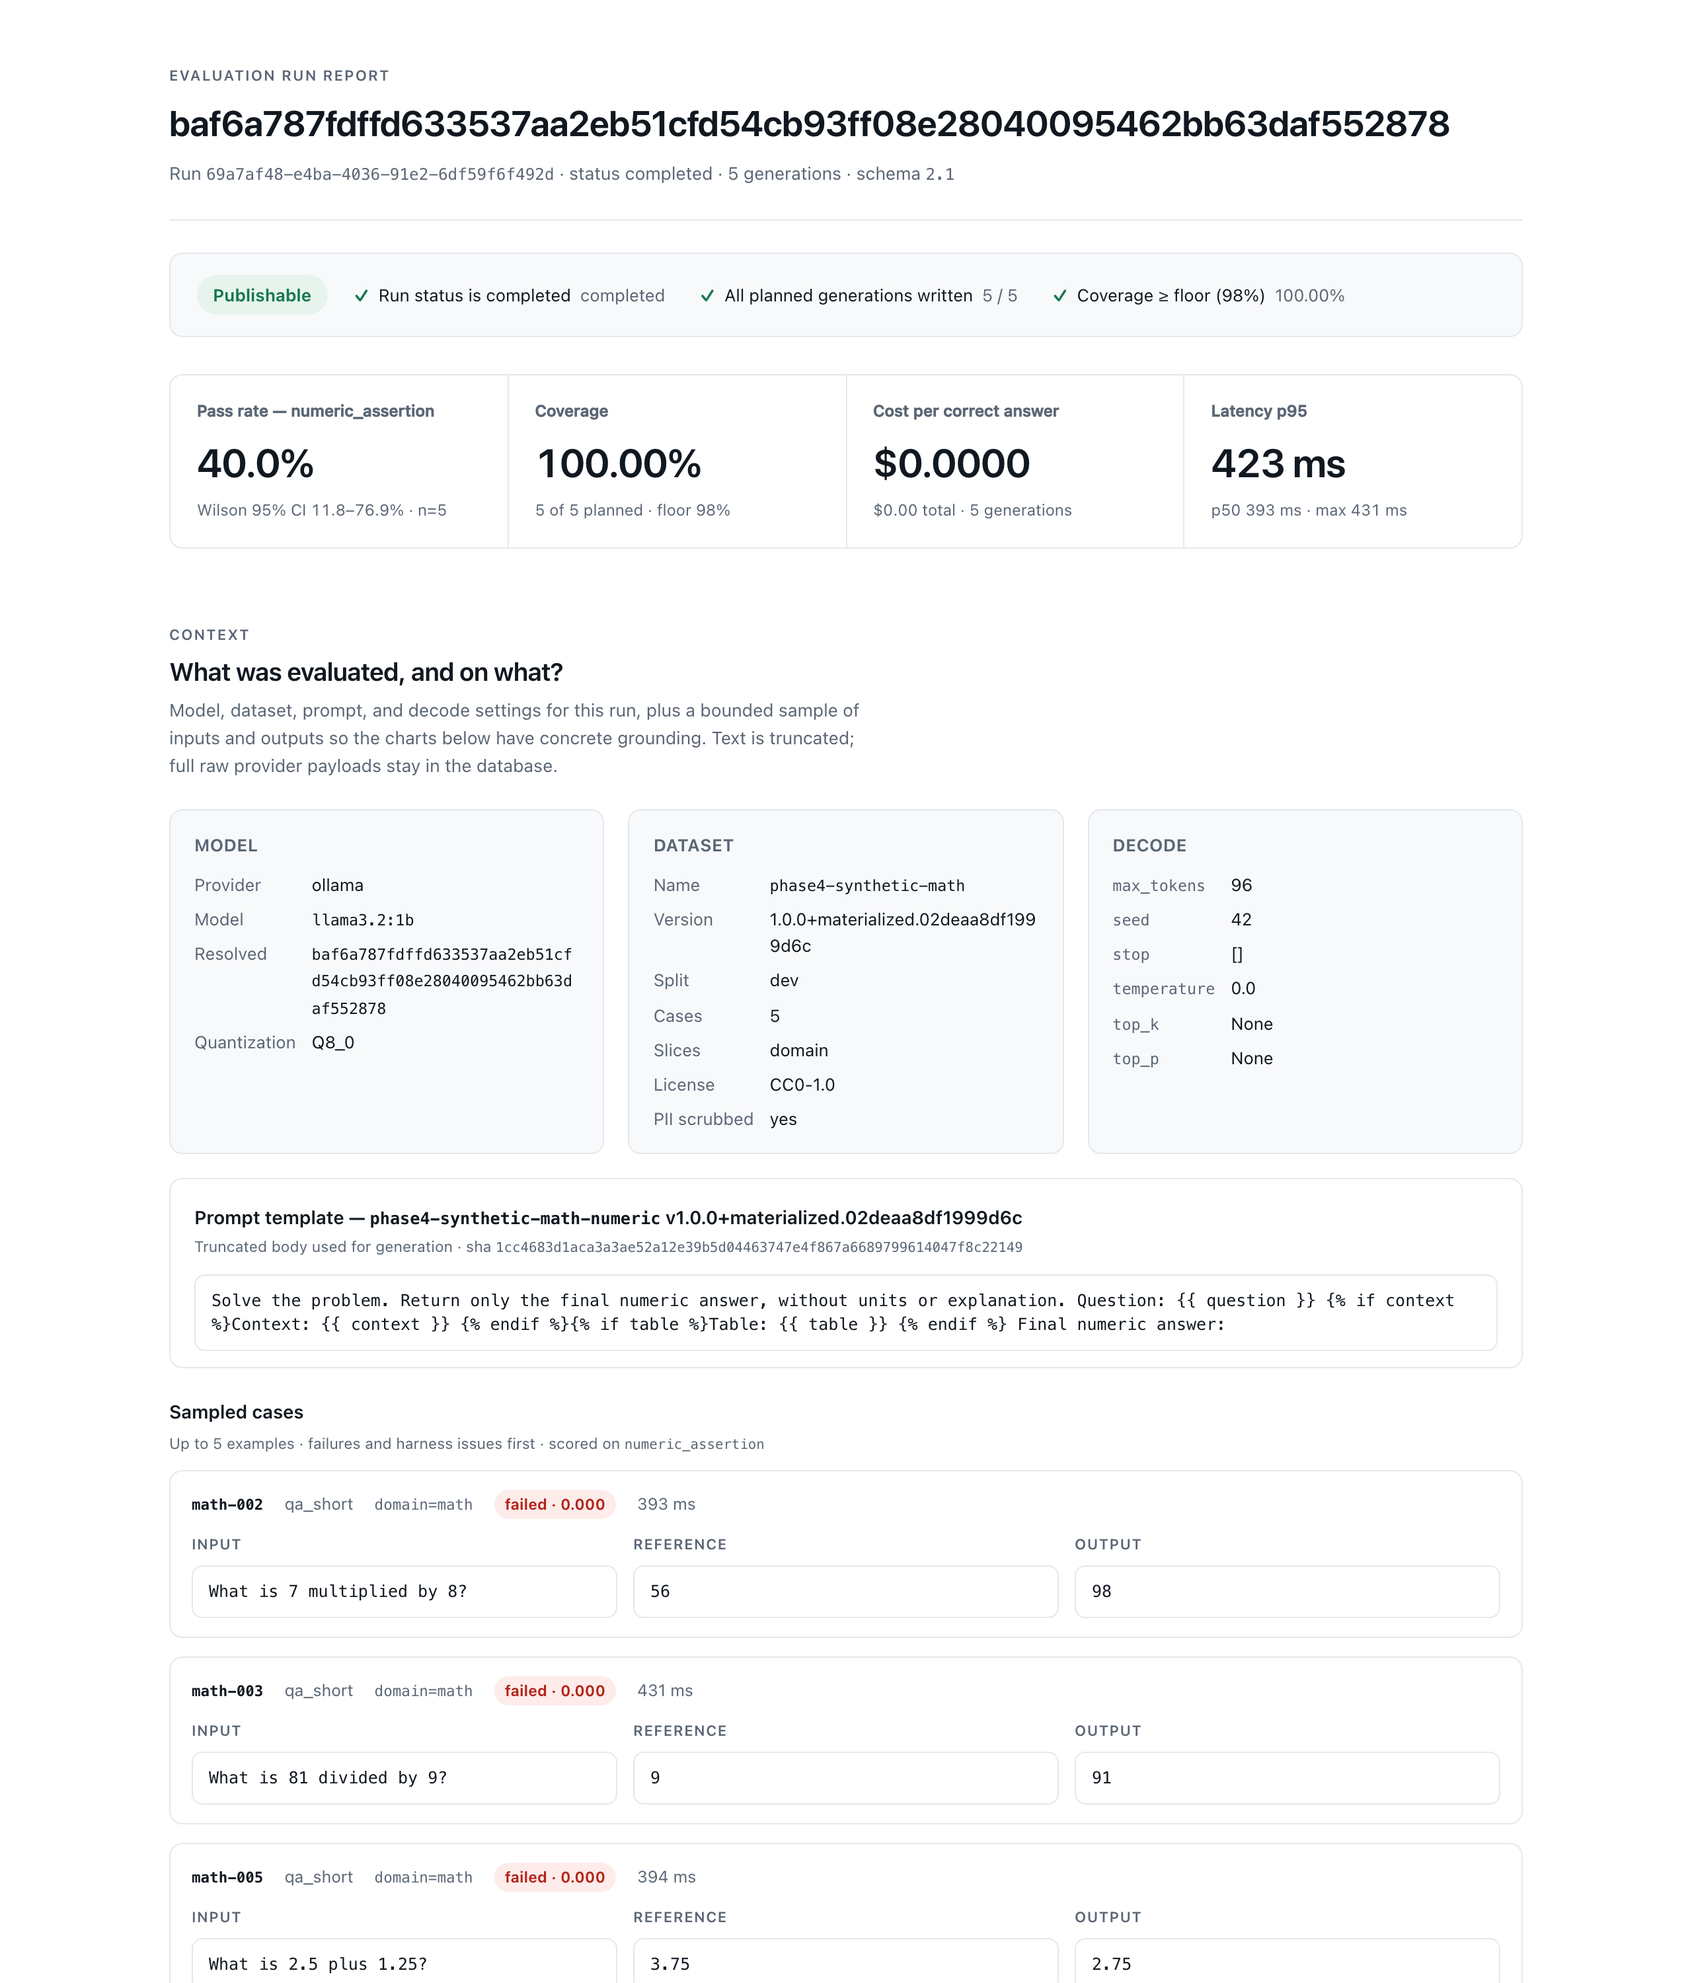
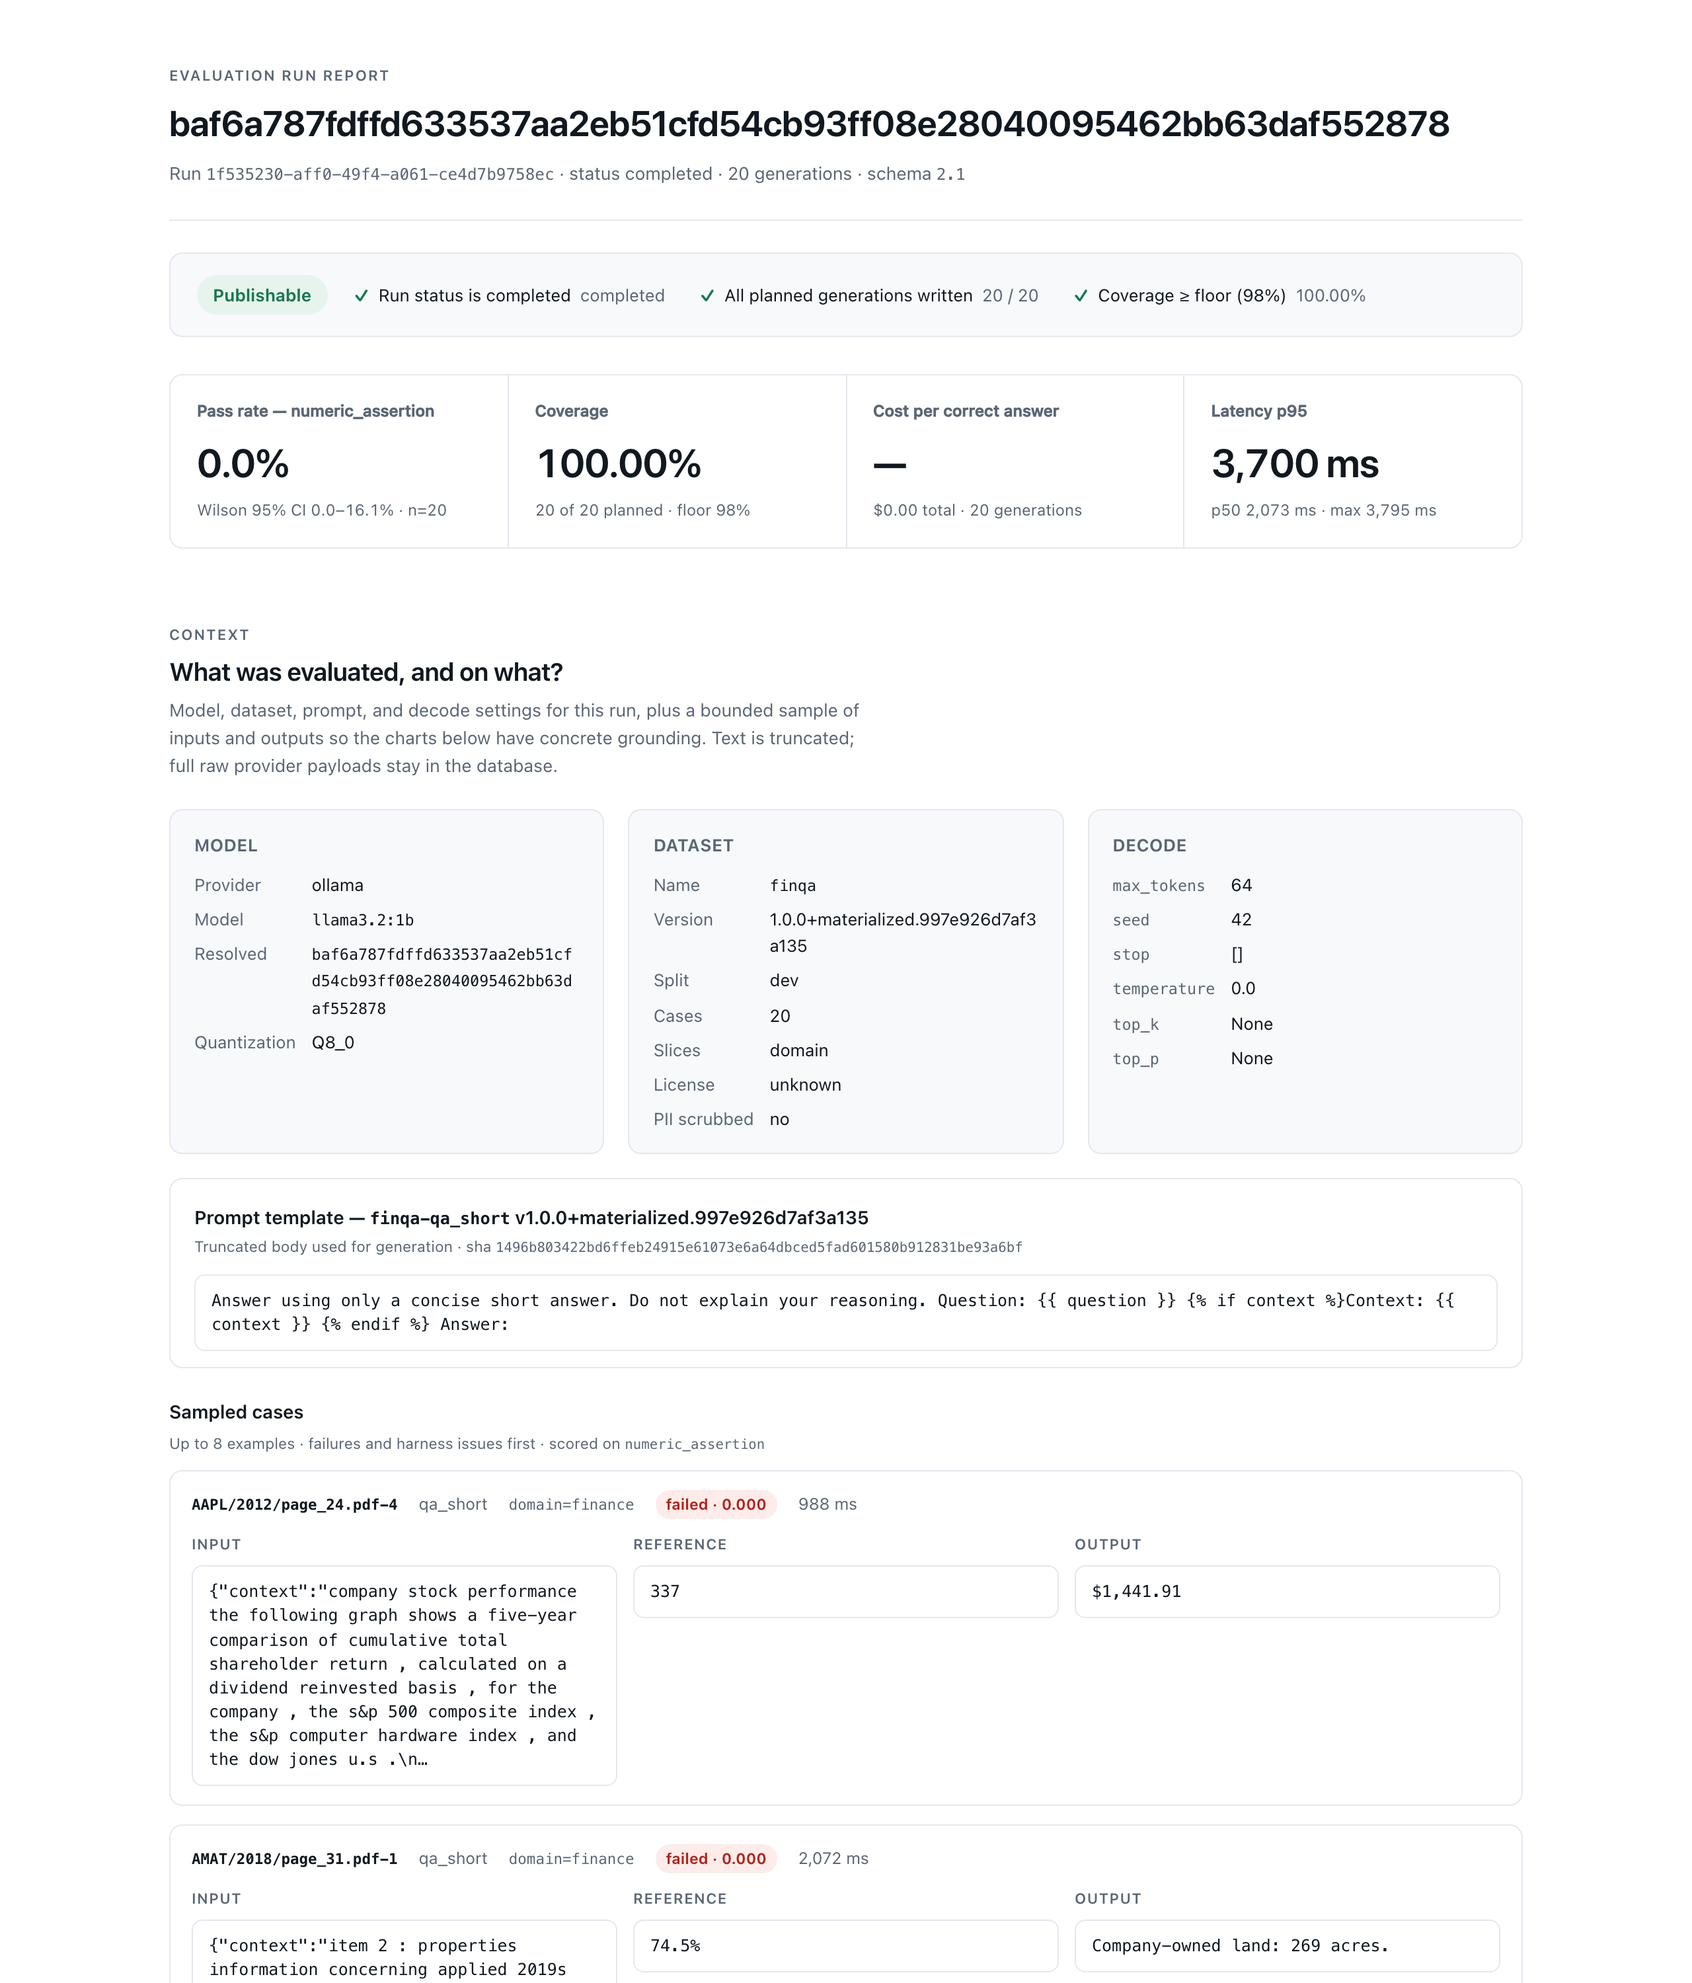
docs: replace mock screenshots with live Ollama real-corpus runs
Refresh README assets from SQuAD, AG News, FinQA, and PubMedQA via
llama3.2:1b, fix PubMedQA CONTEXTS parsing, and update the demo script.

diff --git a/packages/evaldatasets/src/evaldatasets/adapters.py b/packages/evaldatasets/src/evaldatasets/adapters.py
@@ -151,7 +151,8 @@ def _pubmedqa(path: Path) -> list[CaseRecord]:
     for record_id, value in root.items():
         if not isinstance(value, dict):
             continue
-        context_value = value.get("CONTEXT", [])
+        # Upstream PubMedQA dumps use CONTEXTS (list); older snapshots used CONTEXT.
+        context_value = value.get("CONTEXTS", value.get("CONTEXT", []))
         context = (
             "\n".join(map(str, context_value))
             if isinstance(context_value, list)

diff --git a/README.md b/README.md
@@ -41,159 +41,126 @@ Harness failures (a provider timing out, garbage output) are counted separately 
 
 ## What the reports look like
 
-Screenshots below come from a **full Ollama end-to-end pass** (`llama3.2:1b`) over
-cache-only **SQuAD v1.1** and **AG News** packs plus synthetic fixtures that
-exercise other metric families. Artifacts live under `reports/demo/ollama/`
-(gitignored). Reproduce with Postgres + Ollama up, then:
+Screenshots below are from **live Ollama** runs (`llama3.2:1b`) on **real public
+corpora** only (no mock provider, no synthetic fixtures):
+
+| Corpus | Pack | Primary metric | Pass rate (this run) |
+|--------|------|----------------|----------------------|
+| [SQuAD v1.1](https://rajpurkar.github.io/SQuAD-explorer/) | 50-case CI | `squad_f1` | **52%** (Wilson ~39–65%) |
+| [AG News](https://raw.githubusercontent.com/mhjabreel/CharCnn_Keras/master/data/ag_news_csv/test.csv) | 50-case CI | `classification` | **2%** |
+| [FinQA](https://github.com/czyssrs/FinQA) | 20-case smoke | `numeric_assertion` | **0%** |
+| [PubMedQA](https://github.com/pubmedqa/pubmedqa) | 20-case smoke | `classification` | **0%** |
+
+Artifacts: `reports/demo/ollama-real/` (gitignored). Snapshots stay under
+`.cache/` (also gitignored). Reproduce:
 
 ```bash
-docker compose up -d postgres ollama
-ollama pull llama3.2:1b
+docker compose up -d postgres ollama && ollama pull llama3.2:1b
 ./scripts/demo_realworld.sh --provider ollama --model llama3.2:1b
 ```
 
-Numbers cited are from that run (small smoke packs, 1B model). They illustrate
-how to read the UI, not a claim about SOTA quality.
+A 1B local model is deliberately weak on label/JSON/finance QA; the point is
+honest live plumbing on real text, not SOTA numbers.
 
 ### Publishability and KPIs
 
-<img src="docs/assets/kpi-publishability.png" alt="KPI strip: pass rate with Wilson CI, coverage, cost, latency p95" width="900" />
+<img src="docs/assets/kpi-publishability.png" alt="SQuAD CI KPI strip from Ollama: 52% squad_f1 pass rate with Wilson CI" width="900" />
 
-**How to read it.** The green badges are harness honesty gates, not model
-quality: run completed, all planned generations written, coverage at or above
-the floor (here 98%). **Pass rate** is the fraction of scored cases that pass
-the primary metric, with a **Wilson 95% CI**. Wide intervals on small `n` are
-expected. Coverage near 100% with a low pass rate means the pipeline worked and
-the model simply scored poorly (or the metric is strict). Cost stays honest
-when the provider reports pricing; unpriced generations fail closed on money
-gates elsewhere.
+**How to read it.** Green badges are harness honesty (completed run, all
+generations written, coverage ≥ floor), not model quality. **Pass rate** is the
+primary-metric success rate with a **Wilson 95% CI**. Here coverage is 100% with
+a mid pack pass rate: the runner finished and the model got about half of SQuAD
+F1 thresholds. Wide CIs shrink as `n` grows (this pack is `n=50`).
 
-### Extractive QA (`squad_f1`, `exact_match`)
+### Extractive QA on SQuAD (`squad_f1`, `exact_match`)
 
-SQuAD v1.1 smoke pack (20 cases). Primary metric `squad_f1` pass rate **35%**
-(Wilson 95% CI about 18–57%). Exact match was harder on this 1B model: F1 can
-credit partial token overlap while EM requires a normalized string match.
+<img src="docs/assets/realworld-squad-dashboard.png" alt="Live Ollama dashboard on SQuAD v1.1 CI pack" width="900" />
 
-<img src="docs/assets/realworld-squad-dashboard.png" alt="Ollama SQuAD dashboard showing non-zero squad_f1 pass rate" width="900" />
+![Metric scores with 95% CI](docs/assets/chart-metric-scores.png)
 
-![Metric scores with 95% CI for squad_f1 and exact_match](docs/assets/chart-metric-scores.png)
+**How to read it.** Bars are metric×slice (or overall) estimates with CI
+whiskers. `squad_f1` credits token overlap; `exact_match` needs a normalized
+string hit. When F1 is ahead of EM, the model is close but not exact. Do not
+rank models on the CI midpoint alone.
 
-**How to read it.** Each bar is a metric×slice (or overall) point estimate with
-an error bar for the CI method labeled on the report (Wilson for rates). Compare
-metrics on the same cases: if `squad_f1` rises while `exact_match` stays flat,
-the model is getting closer without hitting exact strings. Do not treat the CI
-midpoint as a leaderboard score without `n`.
+![Sampled SQuAD cases](docs/assets/metric-qa-sampled-cases.png)
 
-![Sampled SQuAD cases with reference vs model output](docs/assets/metric-qa-sampled-cases.png)
+**How to read it.** Samples are for debugging. Compare reference spans to model
+text: empty answers, over-long answers, and wrong entities show up here with
+per-case latency.
 
-**How to read it.** Sampled cases are for debugging, not the denominator. Check
-whether failures are empty answers, verbose answers that hurt EM, or wrong
-spans. Latency per case sits beside the score so slow outliers are visible.
+### News classification on AG News (`classification`)
 
-### Classification (`classification`)
+<img src="docs/assets/metric-classification-dashboard.png" alt="Live Ollama AG News CI classification dashboard" width="900" />
 
-AG News smoke (20 cases) with constrained label output. On `llama3.2:1b` this
-pass rate was **0%** (CI up to ~16%): the small model often fails to emit an
-exact allow-listed label even when the topic is clear.
+**How to read it.** Labels must match the allow-list exactly (`world`, `sports`,
+`business`, `science_technology`). Free-form prose fails. On this 1B run only
+**2%** passed at `n=50`; coverage stayed 100%, so the miss is capability/prompt
+strictness, not a broken pipeline.
 
-<img src="docs/assets/metric-classification-dashboard.png" alt="AG News classification dashboard under Ollama" width="900" />
+### Numeric finance QA on FinQA (`numeric_assertion`)
 
-**How to read it.** Classification here is fail-closed on the label set: near
-misses and free-form prose count as wrong. Low pass rate with high coverage
-points to prompt or model capability, not a broken runner. Slice charts (when
-present) show whether one domain drives the miss rate.
+<img src="docs/assets/metric-numeric-dashboard.png" alt="Live Ollama FinQA smoke dashboard" width="900" />
 
-### Numeric assertion (`numeric_assertion`)
+**How to read it.** FinQA asks for a final number from tables and text. The
+metric extracts that number and compares it to the gold answer. Extra prose
+fails. **0%** on a 1B model is expected; the dashboard still shows full
+coverage, slices, and latency for a hard real corpus.
 
-Synthetic finance and math packs (final number only). Observed pass rates on
-this run: finance **20%**, math **40%** (wide CIs at `n=5`).
+### Biomedical classification on PubMedQA (`classification`)
 
-<img src="docs/assets/metric-numeric-dashboard.png" alt="Numeric assertion dashboard for synthetic math under Ollama" width="900" />
+<img src="docs/assets/metric-healthcare-dashboard.png" alt="Live Ollama PubMedQA smoke dashboard" width="900" />
 
-![Finance numeric_assertion run](docs/assets/run-finance-slices.png)
+**How to read it.** Cases are yes/no/maybe decisions over PubMed abstracts.
+Same fail-closed label rule as AG News. Use this view to confirm healthcare
+slices and prompt constraints before trusting a larger clinical model.
 
-**How to read it.** The metric extracts a final numeric answer and compares it
-to the reference. Extra prose usually fails. Use these packs to verify that
-decode limits and prompts keep the model in "number only" mode before you trust
-a larger finance corpus.
-
-### Summarization overlap (`rouge_l`, `chrf_pp`)
-
-Synthetic summarization smoke. Primary `rouge_l` pass rate **60%** on this run
-(CI roughly 23–88% at `n=5`).
-
-<img src="docs/assets/metric-summarization-dashboard.png" alt="Summarization dashboard with rouge_l under Ollama" width="900" />
-
-**How to read it.** ROUGE/chrF are overlap metrics, not factuality judges. A
-high score can still hallucinate; a low score can still be faithful but
-paraphrased. Pair them with RAG/judge signals when truthfulness matters.
-
-### Structured extraction (`json_validity`, `json_field_f1`)
-
-Synthetic extraction smoke. Primary `json_validity` was **0%** here: the 1B
-model did not reliably emit parseable JSON under the constrained template.
-
-<img src="docs/assets/metric-extraction-dashboard.png" alt="JSON extraction dashboard under Ollama" width="900" />
-
-**How to read it.** `json_validity` is a gate on well-formed JSON; field F1
-scores content only after parse succeeds. Zero validity means field F1 never
-gets a fair shot. Fix schema prompting or use a stronger model before tuning
-field-level scores.
-
-### Slices and reliability
+### Slices and reliability (SQuAD CI)
 
 ![Pass rate by slice](docs/assets/chart-slice-pass-rate.png)
 
-**How to read it.** Bars are pass rate within a slice key (for SQuAD, often
-`domain` / `source_title`). A flat low chart means uniform weakness; a few tall
-bars mean the headline number hides concentration in easy slices.
+**How to read it.** Each bar is pass rate inside a slice (e.g. Wikipedia
+`source_title`). Uneven bars mean the headline rate hides easy/hard articles.
 
-![Generation outcomes and harness vs model failures](docs/assets/chart-outcome-breakdown.png)
+![Outcome breakdown](docs/assets/chart-outcome-breakdown.png)
 
-**How to read it.** Reliability separates **model** outcomes from **harness**
-failures (timeouts, provider errors). Harness failures are excluded from the
-quality denominator so infra blips do not look like worse accuracy.
+**How to read it.** Separates model outcomes from harness failures (timeouts,
+provider errors). Harness failures are excluded from quality denominators.
 
-### Latency and cost
+### Latency (SQuAD CI)
 
 ![Latency percentiles](docs/assets/chart-latency-percentiles.png)
 
-**How to read it.** Prefer p50/p95/p99 over the mean. On this Ollama SQuAD
-smoke, p95 was about **2.4 s** per generation. Spikes at p99/max flag tail
-latency under concurrency. Cost KPIs stay blank or zero when the provider does
-not report price; that is intentional honesty, not "free."
+**How to read it.** Prefer p50/p95/p99. Live Ollama latency is seconds, not the
+mock's milliseconds. Tail (p99/max) shows concurrency stress.
 
-### Suite rollup (multi-metric leaderboard)
+### Suite across real corpora
 
-`evalctl suite build` folds the Ollama members (SQuAD, AG News, finance, math,
-summarization, extraction, and related synthetics) into one offline HTML suite:
+Five live members (SQuAD baseline/candidate, AG News, FinQA, PubMedQA) folded
+with `evalctl suite build`. Paired SQuAD compare: baseline **52%** vs candidate
+**50%** `squad_f1` (temp 0.0 vs 0.2), absolute delta **-0.02**, not significant.
 
-<img src="docs/assets/realworld-suite-dashboard.png" alt="Suite dashboard across Ollama metric families" width="900" />
+<img src="docs/assets/realworld-suite-dashboard.png" alt="Suite dashboard over real Ollama corpora" width="900" />
 
-![Suite coverage matrix](docs/assets/suite-coverage-matrix.png)
+![Coverage matrix](docs/assets/suite-coverage-matrix.png)
 
-![Suite primary-metric leaderboard](docs/assets/suite-leaderboard.png)
+![Primary-metric leaderboard](docs/assets/suite-leaderboard.png)
 
-![Suite latency by member](docs/assets/suite-latency.png)
+![Latency by member](docs/assets/suite-latency.png)
 
-**How to read it.** The coverage matrix answers "did every member finish
-honestly?" The primary-metric chart compares different tasks on their own
-metrics (do not average `squad_f1` with `rouge_l`). Latency by member shows
-which packs dominate wall time. Paired compares (when declared) carry deltas
-and CIs for baseline vs candidate on the **same** cases.
+**How to read it.** Coverage matrix = did every member finish honestly?
+Leaderboard compares each task on **its own** primary metric (do not average
+`squad_f1` with `classification`). Latency chart shows which corpus dominates
+wall time.
 
-### Surfaces exercised (Ollama)
+### Surfaces exercised
 
-| Surface | Result in this demo |
-|---------|---------------------|
-| `dataset materialize` / `validate` | SQuAD + AG News smoke packs from pinned snapshots |
-| `run` (`--provider ollama`) | Non-zero `squad_f1`, `numeric_assertion`, `rouge_l`; strict label/JSON still hard for 1B |
-| `runs rescore` | Zero-inference rescore of SQuAD |
-| `runs compare` | Baseline `temperature=0` vs candidate `temperature=0.2` on SQuAD |
-| `suite validate` / `build` | Eight-member suite HTML/JSON |
-
-Judge / RAG can use the same Ollama endpoint; gates / matrix CLIs are not on the
-default `evalctl` entry in this checkout.
+| Surface | Real-data result |
+|---------|------------------|
+| `materialize` / `validate` | SQuAD, AG News, FinQA, PubMedQA from pinned local snapshots |
+| `run --provider ollama` | Non-zero SQuAD F1; strict classification/FinQA still hard for 1B |
+| `runs compare` | SQuAD CI temp 0 vs 0.2 on the same 50 cases |
+| `suite build` | Five-member real-corpus suite HTML/JSON |
 
 ## How it is used
 
@@ -264,7 +231,7 @@ chmod +x scripts/demo_realworld.sh
 docker compose up -d postgres ollama && ollama pull llama3.2:1b
 ./scripts/demo_realworld.sh --provider ollama --model llama3.2:1b
 # snapshots + pins under .cache/datasets/ (gitignored)
-# packs under .cache/packs/; HTML/JSON under reports/demo/ollama/
+# packs under .cache/packs/; HTML/JSON under reports/demo/ollama-real/
 ```
 
 ### Judge and RAG evidence (informational until calibrated)
